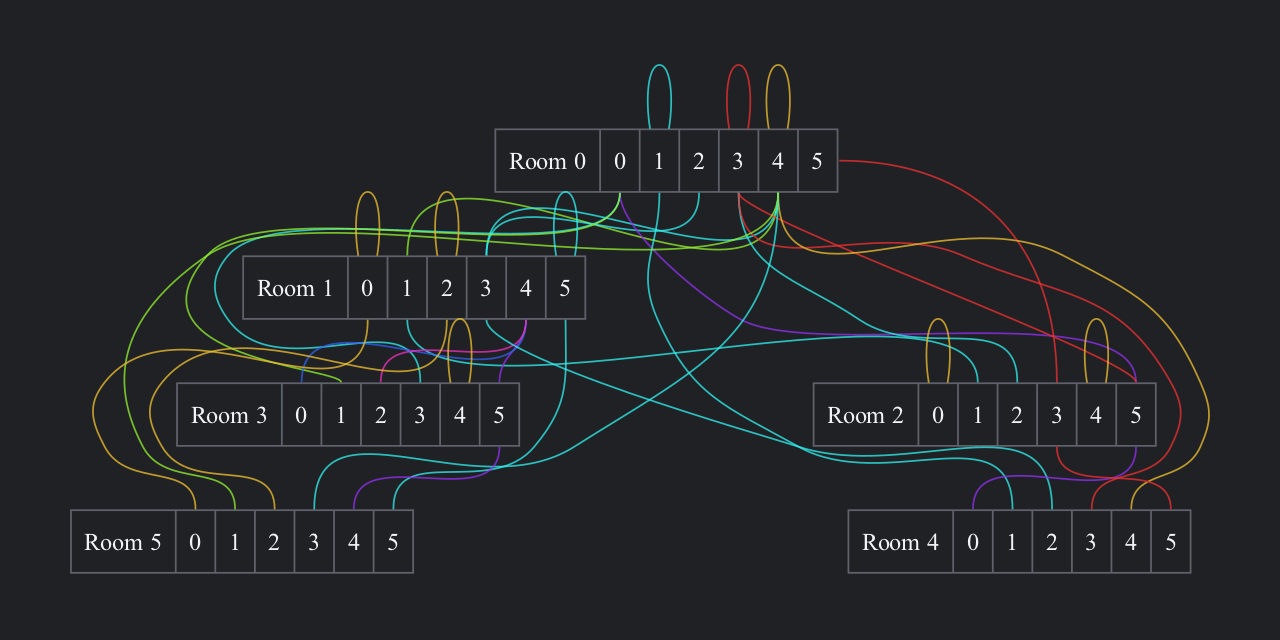
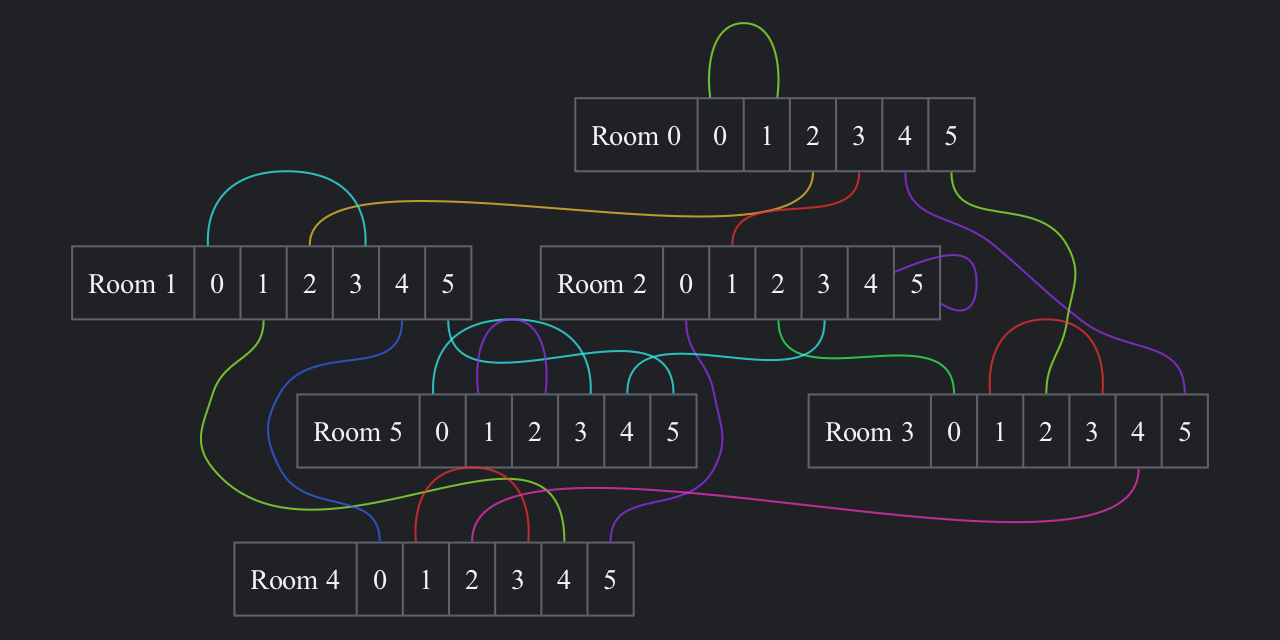
codes

diff --git a/src/player.py b/src/player.py
@@ -9,7 +9,7 @@ from pathlib import Path
 from urllib.parse import urljoin
 
 
-_baseurl = 'https://31pwr5t6ij.execute-api.eu-west-2.amazonaws.com/'
+_DefaultUrl = 'https://31pwr5t6ij.execute-api.eu-west-2.amazonaws.com/'
 _logger = logging.getLogger(Path(__file__).name)
 
 
@@ -29,7 +29,7 @@ def fproc(filt, prog, *args, **kwargs):
 
 
 class ApiClient:
-    def __init__(self, baseurl=_baseurl, timeout=30):
+    def __init__(self, baseurl, timeout=30):
         self.ses = requests.Session()
         self.baseurl = baseurl
         self.timeout = timeout
@@ -103,7 +103,7 @@ class ApiClient:
 
 
 def handle_select(args):
-    api = ApiClient()
+    api = ApiClient(args.url)
     api.select(args.pid)
 
 
@@ -112,7 +112,7 @@ def handle_solve(args):
         parser.error('argument -s/--solver: requires a value')
     solver = __import__(args.solver)
     size = args.size
-    api = ApiClient()
+    api = ApiClient(args.url)
     rooms, start, cons = solver.solve(api, size)
     res = api.guess(rooms=rooms, start=start, connections=cons)
     print(res)
@@ -123,7 +123,7 @@ def handle_snipe(args):
         parser.error('argument -s/--solver: requires a value')
     solver = __import__(args.solver)
     size = args.size
-    api = ApiClient()
+    api = ApiClient(args.url)
     api.select(args.pid)
     rooms, start, cons = solver.solve(api, size)
     res = api.guess(rooms=rooms, start=start, connections=cons)
@@ -138,7 +138,7 @@ def handle_cheese(args):
     if not args.cheeser:
         parser.error('argument -c/--cheeser: requires a value')
     cheeser = __import__(args.cheeser)
-    api = ApiClient()
+    api = ApiClient(args.url)
     res = cheeser.cheese(solver, api, args.pid, args.size)
     print(res)
 
@@ -149,6 +149,8 @@ if __name__ == '__main__':
     subps = parser.add_subparsers(required=True)
     parser.add_argument('-v', '--verbose', action='count', default=0,
         help='verbose output (-vvv)')
+    parser.add_argument('-u', '--url', default=_DefaultUrl,
+        help='base URL (default %(default)s)')
     parser.add_argument('-s', '--solver', help='solver module')
     parser.add_argument('-c', '--cheeser', help='cheesing module')
 

diff --git a/src/viz.py b/src/viz.py
@@ -1,16 +1,33 @@
 #!/usr/bin/env python
+import json
 import re
 import string
 import textwrap
 
 
+def parsecons(text):
+    cons = None
+    try:
+        cons = json.loads(text)
+    except json.JSONDecodeError:
+        pass
+    if cons is None:
+        xs = list(map(int, re.findall(r'\d+', text)))
+        cons = [((a,i),(b,j)) for p in range(0, len(xs), 4)
+            for a,i,b,j in [xs[p:p+4]]]
+    elif isinstance(cons, dict):
+        cons = cons.get('map', cons)
+        cons = cons['connections']
+    if cons and isinstance(cons[0], dict):
+        cons = [((o['from']['room'], o['from']['door']),
+            (o['to']['room'], o['to']['door'])) for o in cons]
+    return cons
+
+
 def main(args):
     text = args.input.read()
-    xs = list(map(int, re.findall(r'\d+', text)))
-    ps = xs[0::4]
-    pi = xs[1::4]
-    qt = xs[2::4]
-    qj = xs[3::4]
+    cons = parsecons(text)
+    rooms = {x for (a,i),(b,j) in cons for x in [a,b]}
     tdoc = '''\
 graph {
   bgcolor = "#202124";
@@ -26,9 +43,9 @@ $edges
     troom = 'room$a [label = "<f0> Room $a|<f1> 0|<f2> 1|<f3> 2|<f4> 3|<f5> 4|<f6> 5"];'
     tedge = 'room$a:f$i -- room$b:f$j [color = "$c 0.80 0.95 0.75"];'
     rooms = [string.Template(troom).substitute(a=a)
-        for a in set(ps + qt)]
+        for a in rooms]
     edges = list()
-    for a,i,b,j in zip(ps, pi, qt, qj):
+    for (a,i),(b,j) in cons:
         c = round(((i+1) * (j+1)) % 8 / 8, 3)
         edges.append(string.Template(tedge)
             .substitute(a=a, i=i+1, b=b, j=j+1, c=c))
